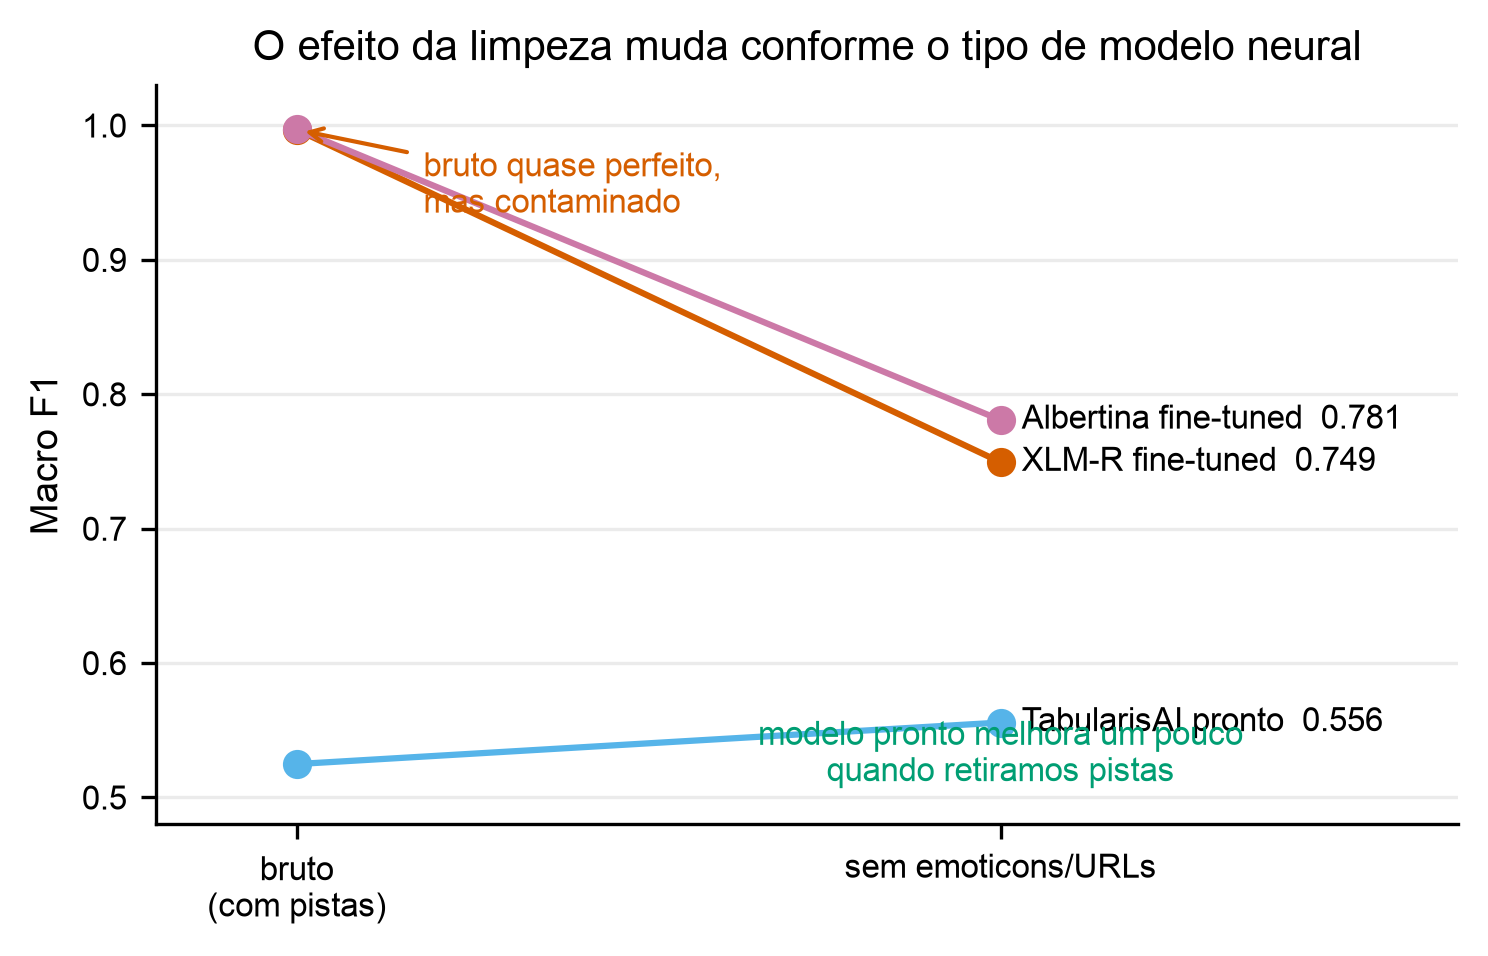
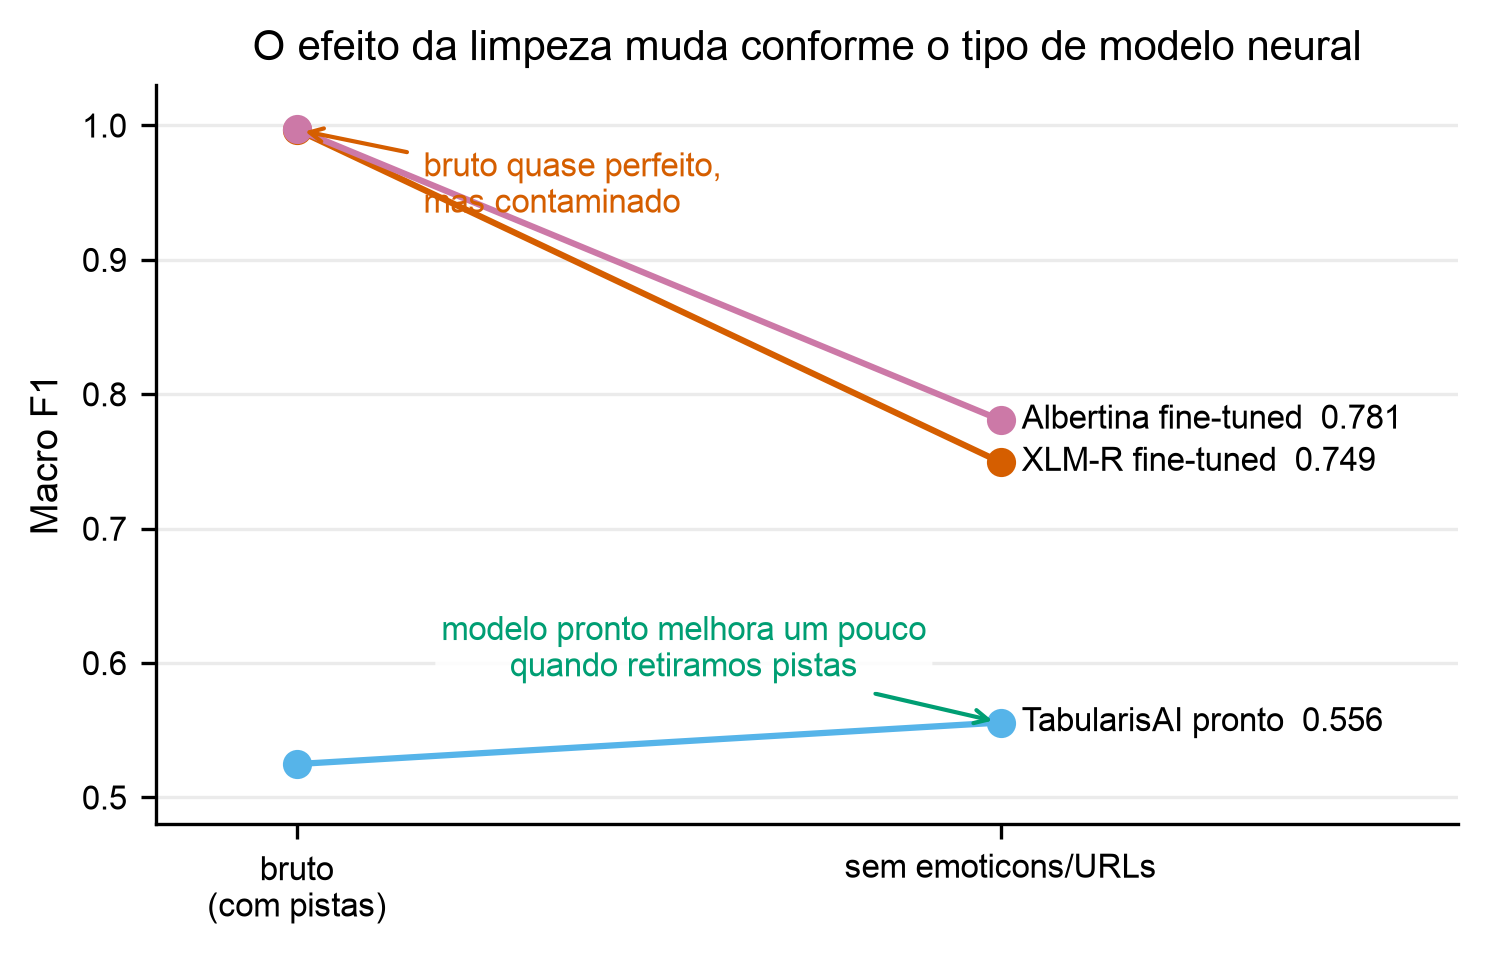
Refine app recommendations and etapa2 report

Changed region(s): [[0.2782, 0.637, 0.6183, 0.728], [0.4946, 0.728, 0.8347, 0.819]]

diff --git a/streamlit_app.py b/streamlit_app.py
@@ -287,7 +287,17 @@ def render_comparison_selector(models: tuple[AppModelInfo, ...]) -> tuple[AppMod
     return tuple(model_by_id[model_id] for model_id in selected_ids if model_id in model_by_id)
 
 
-def render_model_card(model: AppModelInfo) -> None:
+def _prediction_matches_model(
+    prediction: AppPrediction | None,
+    model: AppModelInfo,
+) -> bool:
+    return prediction is not None and prediction.model.id == model.id
+
+
+def render_model_card(
+    model: AppModelInfo,
+    prediction: AppPrediction | None = None,
+) -> None:
     with st.container(border=True):
         st.caption("Modo escolhido")
         st.markdown(f"### {model.display_name}")
@@ -308,6 +318,10 @@ def render_model_card(model: AppModelInfo) -> None:
                 "classifica frases nesta versão leve da demonstração.",
                 icon=":material/info:",
             )
+        st.divider()
+        render_recommendation_panel(
+            prediction if _prediction_matches_model(prediction, model) else None
+        )
 
 
 def render_comparison_model_card(models: tuple[AppModelInfo, ...]) -> None:
@@ -369,48 +383,51 @@ def _recommendation_next(max_idx: int) -> None:
     )
 
 
-def render_recommendations(prediction: AppPrediction) -> None:
-    songs: tuple[Song, ...] = recommend_ranked(prediction.label, prediction.score)
-    with st.container(border=True):
-        st.subheader("música recomendada")
-        if not songs:
-            st.caption("nenhuma música disponível para esse rótulo.")
-            return
+def render_recommendation_panel(prediction: AppPrediction | None) -> None:
+    st.markdown("#### música recomendada")
+    if prediction is None:
+        st.caption("Classifique uma frase para ver uma sugestão musical.")
+        return
 
-        idx = int(st.session_state.recommendation_index)
-        if idx >= len(songs):
-            idx = 0
-            st.session_state.recommendation_index = 0
-        song = songs[idx]
-        st.caption(
-            f"{translate_label(prediction.label)} · "
-            f"{translate_score_name(prediction.score_name).lower()} "
-            f"{format_prediction_score(prediction)}"
-        )
-        if len(songs) > 1:
-            st.caption(f"opção {idx + 1} de {len(songs)}")
-        st.markdown(f"### {song.title}")
-        st.caption(song.artist)
-        if len(songs) >= 2:
-            last = len(songs) - 1
-            with st.container(horizontal=True, horizontal_alignment="distribute"):
-                st.button(
-                    "voltar",
-                    on_click=_recommendation_prev,
-                    disabled=idx == 0,
-                    key=f"rec_prev_{prediction.model.id}_{idx}",
-                    use_container_width=True,
-                )
-                st.button(
-                    "outra sugestão",
-                    on_click=_recommendation_next,
-                    kwargs={"max_idx": last},
-                    disabled=idx >= last,
-                    key=f"rec_next_{prediction.model.id}_{idx}",
-                    use_container_width=True,
-                )
-        st.video(song.youtube_url)
-        st.link_button("abrir no youtube", song.search_url, width="stretch")
+    songs: tuple[Song, ...] = recommend_ranked(prediction.label, prediction.score)
+    if not songs:
+        st.caption("Nenhuma música disponível para esse sentimento.")
+        return
+
+    idx = int(st.session_state.recommendation_index)
+    if idx >= len(songs):
+        idx = 0
+        st.session_state.recommendation_index = 0
+    song = songs[idx]
+    st.caption(
+        f"{translate_label(prediction.label)} · "
+        f"{translate_score_name(prediction.score_name).lower()} "
+        f"{format_prediction_score(prediction)}"
+    )
+    if len(songs) > 1:
+        st.caption(f"opção {idx + 1} de {len(songs)}")
+    st.markdown(f"### {song.title}")
+    st.caption(song.artist)
+    if len(songs) >= 2:
+        last = len(songs) - 1
+        with st.container(horizontal=True, horizontal_alignment="distribute"):
+            st.button(
+                "voltar",
+                on_click=_recommendation_prev,
+                disabled=idx == 0,
+                key=f"rec_prev_{prediction.model.id}_{idx}",
+                use_container_width=True,
+            )
+            st.button(
+                "outra sugestão",
+                on_click=_recommendation_next,
+                kwargs={"max_idx": last},
+                disabled=idx >= last,
+                key=f"rec_next_{prediction.model.id}_{idx}",
+                use_container_width=True,
+            )
+    st.video(song.youtube_url)
+    st.link_button("abrir no youtube", song.search_url, width="stretch")
 
 
 def render_prediction(prediction: AppPrediction) -> None:
@@ -418,9 +435,14 @@ def render_prediction(prediction: AppPrediction) -> None:
     st.space("medium")
     render_text_card(prediction)
 
-    if st.toggle("Mostrar recomendação musical", value=False):
-        st.space("medium")
-        render_recommendations(prediction)
+
+def current_single_prediction_for(model: AppModelInfo | None) -> AppPrediction | None:
+    prediction = st.session_state.get("last_prediction")
+    if model is None or not isinstance(prediction, AppPrediction):
+        return None
+    if prediction.model.id != model.id:
+        return None
+    return prediction
 
 
 def render_comparison(predictions: tuple[AppPrediction, ...]) -> None:
@@ -483,12 +505,6 @@ def main() -> None:
 
         control_col, result_col = st.columns([1, 2], gap="large", vertical_alignment="top")
 
-        with control_col:
-            if selected_model is not None:
-                render_model_card(selected_model)
-            else:
-                render_comparison_model_card(selected_models)
-
         with result_col:
             st.pills(
                 "Exemplos",
@@ -529,6 +545,15 @@ def main() -> None:
                 compare_current_text(selected_models)
             elif selected_model is not None:
                 analyze_current_text(selected_model)
+
+        with control_col:
+            if selected_model is not None:
+                render_model_card(
+                    selected_model,
+                    current_single_prediction_for(selected_model),
+                )
+            else:
+                render_comparison_model_card(selected_models)
 
         with result_col:
             if app_mode == MODE_COMPARE:

diff --git a/etapas/etapa2_subsimbolica/reports/latex/main.tex b/etapas/etapa2_subsimbolica/reports/latex/main.tex
@@ -31,7 +31,7 @@
 }
 
 \setlength{\parindent}{0pt}
-\setlength{\parskip}{0.4em}
+\setlength{\parskip}{0.35em}
 \setlist[itemize]{leftmargin=1.8em}
 
 \newcolumntype{Y}{>{\raggedright\arraybackslash}X}
@@ -128,7 +128,7 @@ Diagnóstico e visualização & Teste de vazamento, análise de erros e figuras 
 
 A tarefa deste projeto é classificar textos curtos em português brasileiro como positivos, negativos ou neutros. A entrada é uma frase ou publicação curta, tipicamente próxima do estilo de redes sociais, e a saída é um rótulo de polaridade. Por exemplo, o texto ``amei o atendimento, foi rápido e cuidadoso'' deve ser classificado como positivo; ``o aplicativo travou de novo e perdi tudo'' deve ser classificado como negativo; e ``o pacote chegou às 14h'' tende a ser neutro, pois descreve um fato sem opinião explícita.
 
-Além da avaliação quantitativa, o projeto tem uma aplicação demonstrável. O usuário digita uma frase, o sistema estima o sentimento dessa frase e, quando a opção de recomendação musical é acionada, sugere uma música cujo clima combina com a saída do classificador. Assim, a classificação não termina apenas em uma etiqueta técnica. Ela vira uma resposta concreta para uma pessoa testando a aplicação na feira.
+Além da avaliação quantitativa, o projeto tem uma aplicação demonstrável. O usuário digita uma frase, o sistema estima o sentimento dessa frase e já sugere uma música cujo clima combina com a saída do classificador. Assim, a classificação não termina apenas em uma etiqueta técnica. Ela vira uma resposta concreta para uma pessoa testando a aplicação na feira.
 
 Essa tarefa é relevante porque opiniões em português brasileiro aparecem continuamente em comentários, avaliações de produtos, publicações políticas, mensagens de atendimento e discussões em redes sociais. Sistemas de análise de sentimentos permitem resumir grandes volumes de texto e apoiar decisões, mas a tarefa continua difícil porque a polaridade de uma frase depende de contexto, domínio e recursos linguísticos informais. A palavra ``bomba'', por exemplo, pode ser negativa em ``o filme é uma bomba'', mas não tem a mesma função em uma notícia factual. A expressão ``adorei esperar duas horas'' tem palavras positivas, mas pode carregar ironia negativa. Em tweets, emoticons, URLs, menções, hashtags, risadas e alongamentos gráficos também alteram fortemente a interpretação.
 
@@ -231,6 +231,8 @@ Para cada música candidata $s$, calculamos a distância
 d(s) = |\,\text{valência}(s) - \text{escore}_{\text{texto}}\,|.
 \]
 A música com menor distância aparece primeiro. A regra é explicável e previsível para a demonstração, mas limitada porque as valências são julgamentos manuais do grupo, não medidas musicais obtidas por anotação ampla ou análise acústica.
+
+Para aproximar esse cenário da feira, a amostra manual usou frases comuns e curtas, como ``O app ficou maravilhoso, simples e divertido'', ``A tela está bagunçada e difícil de usar'' e ``O arquivo tem quatro páginas e duas tabelas''. Como esses exemplos não vieram do corpus de tweets e não tinham emoticons, URLs ou hashtags, a Tabela~\ref{tab:amostra-aplicacao} deve ser lida como teste de uso em texto livre, não como nova prova estatística geral.
 
 \begin{table}[h]
 \small

diff --git a/etapas/etapa2_subsimbolica/reports/latex/scripts/build_figures.py b/etapas/etapa2_subsimbolica/reports/latex/scripts/build_figures.py
@@ -209,14 +209,16 @@ def plot_transformer_drop() -> None:
         color=OKABE_ITO["red"],
         arrowprops={"arrowstyle": "->", "color": OKABE_ITO["red"], "lw": 1.0},
     )
-    ax.text(
-        1.0,
-        0.505,
+    ax.annotate(
         "modelo pronto melhora um pouco\nquando retiramos pistas",
+        xy=(1, stripped[2]),
+        xytext=(0.55, 0.61),
         ha="center",
-        va="bottom",
+        va="center",
         fontsize=8,
         color=OKABE_ITO["green"],
+        bbox={"boxstyle": "round,pad=0.18", "fc": "white", "ec": "none", "alpha": 0.9},
+        arrowprops={"arrowstyle": "->", "color": OKABE_ITO["green"], "lw": 1.0},
     )
     ax.spines["top"].set_visible(False)
     ax.spines["right"].set_visible(False)
